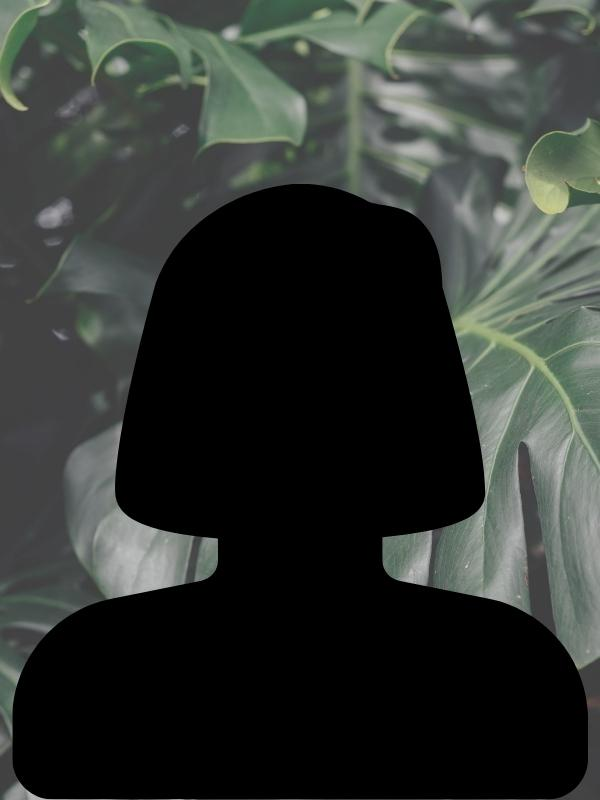
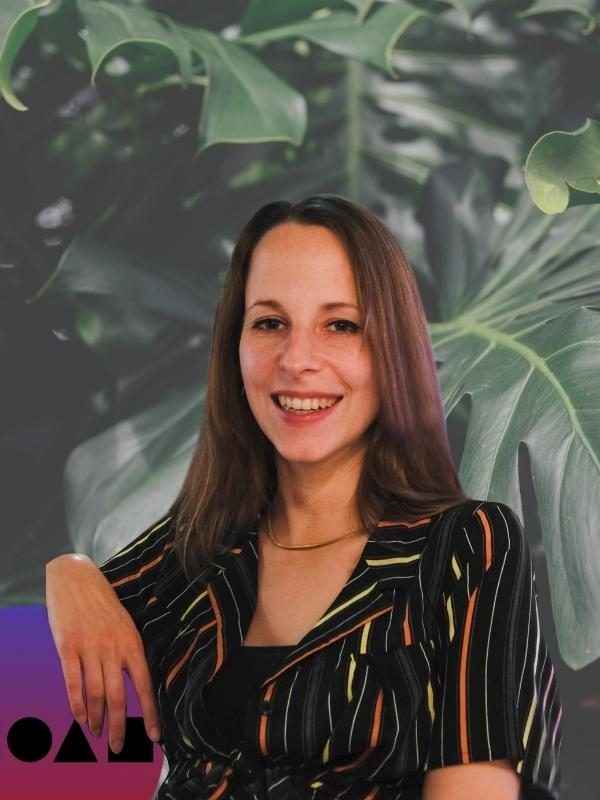
new images

diff --git a/html-en/team-en.html b/html-en/team-en.html
@@ -640,7 +640,7 @@
         </div>
 
         <div class="personal-description">
-          <p class="modal-job">Cook</p>
+          <p class="modal-job">Junior Souschef</p>
           <h3 class="heading-tertiary modal-name">Linus Künzli</h3>
           <p class="modal-text">
             My name is Linus Künzli and I was born in Zurich, on July 24, 2000.
@@ -697,7 +697,7 @@
       </div>
     </div>
 
-    <div class="modal modal-yanis hidden">
+    <div class="modal modal-karin hidden">
       <div class="modal-grid">
         <button class="close-modal">
           <svg
